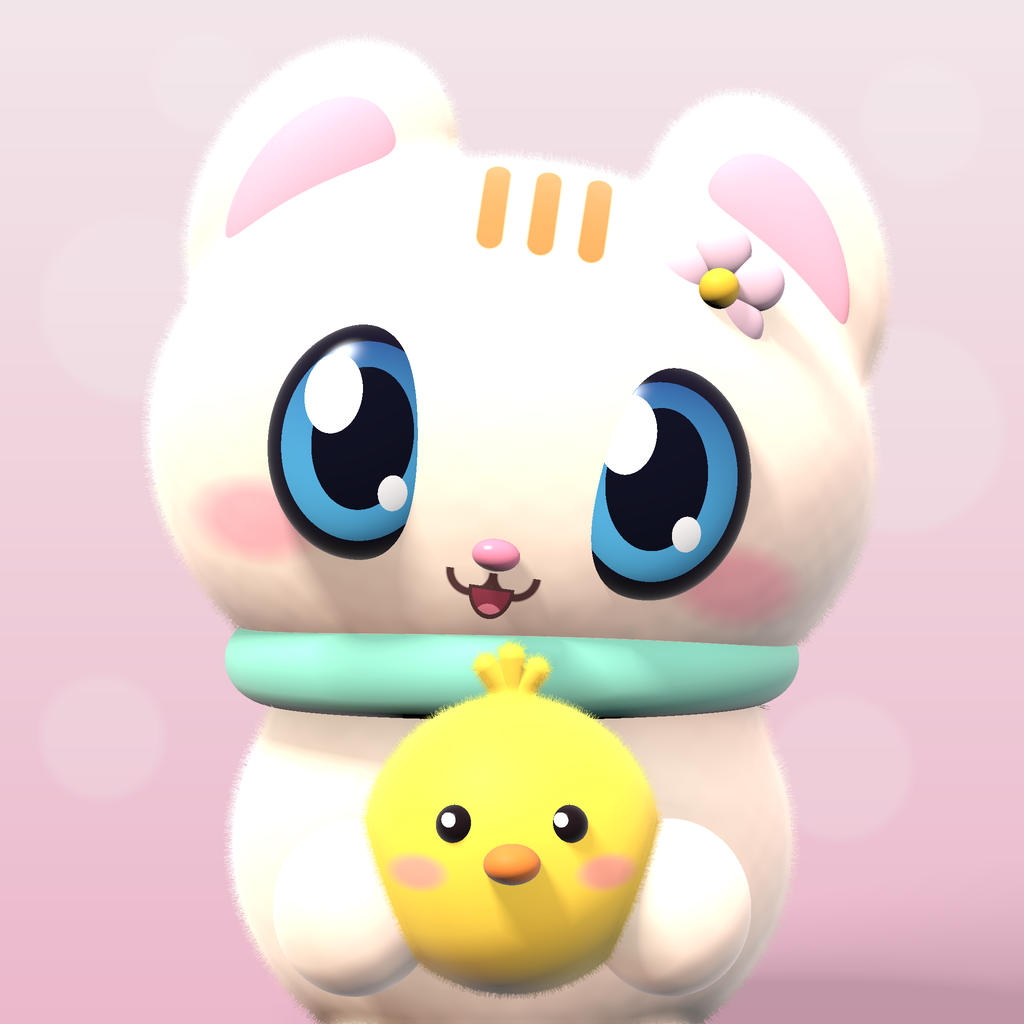
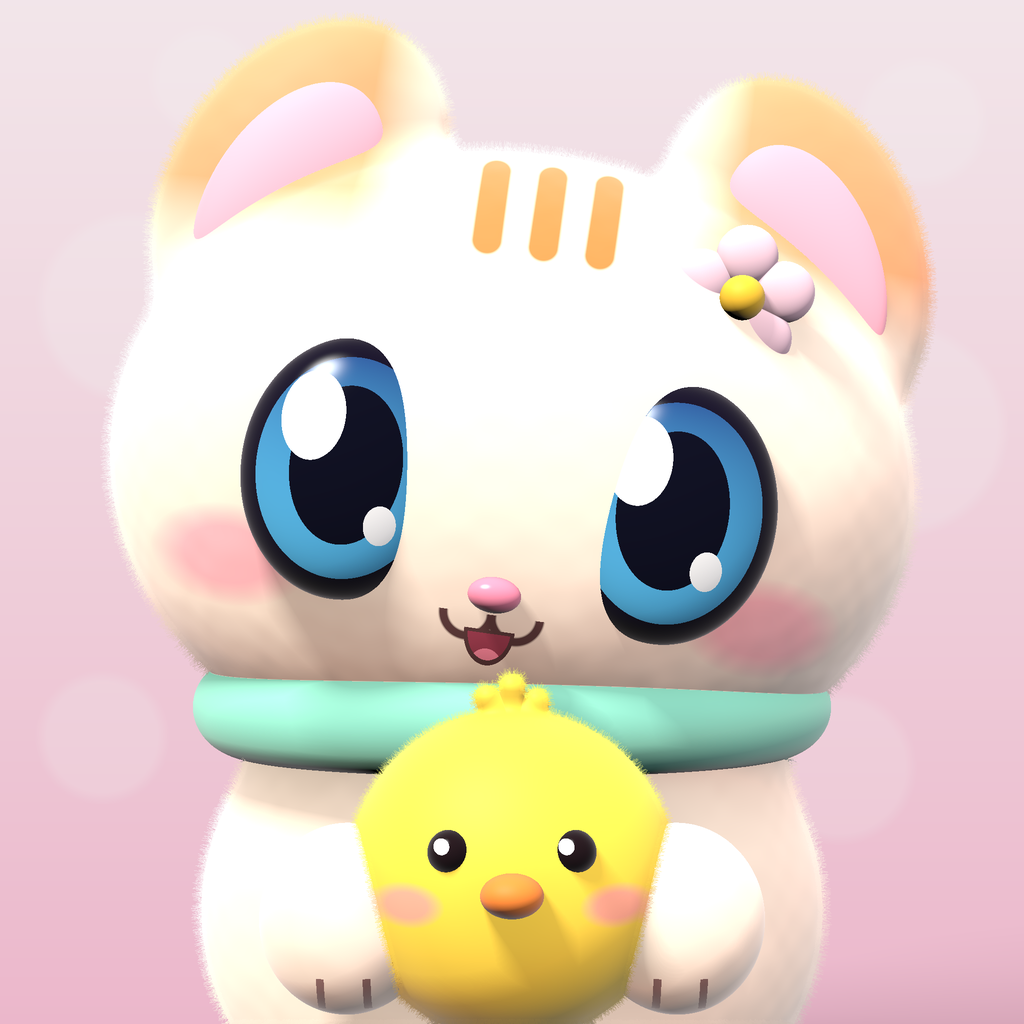
Closer framing, ginger ear tips, paws clasping the chick

diff --git a/render3d.py b/render3d.py
@@ -83,8 +83,8 @@ def scene(p, want_mat=False):
     feet = np.minimum(ell(p, v3(-0.5, -1.58, -0.42), v3(0.36, 0.2, 0.42)),
                       ell(p, v3(0.5, -1.58, -0.42), v3(0.36, 0.2, 0.42)))
     fur = smin(fur, feet, 0.08)
-    paws = np.minimum(ell(p, v3(-0.5, -0.86, -0.92), v3(0.26, 0.28, 0.26)),
-                      ell(p, v3(0.5, -0.86, -0.92), v3(0.26, 0.28, 0.26)))
+    paws = np.minimum(ell(p, v3(-0.47, -0.66, -0.96), v3(0.25, 0.27, 0.25)),
+                      ell(p, v3(0.47, -0.66, -0.96), v3(0.25, 0.27, 0.25)))
     fur = np.minimum(fur, paws)
     # a small daisy at the base of the right ear
     fc = HEAD_C + v3(0.6, 0.6, -0.68)
@@ -97,12 +97,12 @@ def scene(p, want_mat=False):
     eyes = np.minimum(ell(hp, HEAD_C + v3(-0.47, -0.06, -0.84), v3(0.31, 0.38, 0.16)),
                       ell(hp, HEAD_C + v3(0.47, -0.06, -0.84), v3(0.31, 0.38, 0.16)))
     nose = ell(hp, HEAD_C + v3(0, -0.36, -0.99), v3(0.075, 0.05, 0.05))
-    chick = sph(p, v3(0, -0.66, -0.9), 0.47)
-    beak = ell(p, v3(0, -0.66, -1.38), v3(0.085, 0.06, 0.08))
-    ceyes = np.minimum(sph(p, v3(-0.17, -0.55, -1.3), 0.06), sph(p, v3(0.17, -0.55, -1.3), 0.06))
-    tuft = np.minimum(np.minimum(capsule(p, v3(0, -0.2, -0.92), v3(-0.08, -0.09, -0.95), 0.035),
-                                 capsule(p, v3(0, -0.2, -0.92), v3(0.0, -0.06, -0.95), 0.038)),
-                      capsule(p, v3(0, -0.2, -0.92), v3(0.08, -0.1, -0.94), 0.035))
+    chick = sph(p, v3(0, -0.54, -0.9), 0.47)
+    beak = ell(p, v3(0, -0.54, -1.38), v3(0.085, 0.06, 0.08))
+    ceyes = np.minimum(sph(p, v3(-0.17, -0.43, -1.3), 0.06), sph(p, v3(0.17, -0.43, -1.3), 0.06))
+    tuft = np.minimum(np.minimum(capsule(p, v3(0, -0.1, -0.92), v3(-0.07, -0.03, -0.95), 0.033),
+                                 capsule(p, v3(0, -0.1, -0.92), v3(0.0, 0.0, -0.95), 0.036)),
+                      capsule(p, v3(0, -0.1, -0.92), v3(0.07, -0.04, -0.94), 0.033))
     chick = smin(chick, tuft, 0.05)
     # scarf: a flattened torus around the neck
     q = p - v3(0, -0.12, 0.05)
@@ -121,8 +121,8 @@ def scene(p, want_mat=False):
 
 
 # ------------------------------------------------------------------ camera
-CAM = v3(0, 0.4, -9.0)
-FOCAL = 4.95  # larger = narrower field of view
+CAM = v3(0, 0.5, -9.0)
+FOCAL = 5.5  # larger = narrower field of view
 ys, xs = np.mgrid[0:N, 0:N].astype(F)
 u = ((xs + 0.5) / N - 0.5) * 2
 v = -((ys + 0.5) / N - 0.5) * 2
@@ -223,6 +223,16 @@ for s in (-1, 1):
     lower = fy < -0.42
     a = (np.clip((0.016 - md) / 0.006, 0, 1) * lower * front)[:, None]
     base = base * (1 - a) + srgb_to_lin(hexc("#5A3A3A")) * a
+# ginger ear tips: warm colour toward the top outer corners of the head
+furh = mat == M_FUR
+g = np.clip((fy - 0.55) / 0.25, 0, 1) * np.clip((np.abs(fx) - 0.4) / 0.2, 0, 1) * furh
+base = base * (1 - 0.8 * g[:, None]) + srgb_to_lin(hexc("#E9893A"))[None] * (0.8 * g[:, None])
+# toe lines on the paws hugging the chick
+for sx in (-0.47, 0.47):
+    for k in (-1, 1):
+        on = (np.abs(ph[:, 0] - (sx + k * 0.065)) < 0.011) & (ph[:, 1] > -0.9) & (ph[:, 1] < -0.8) \
+             & (ph[:, 2] < -1.0) & furh
+        base = np.where(on[:, None], srgb_to_lin(hexc("#8A6460"))[None], base)
 # a small open smile with a tongue under the w
 mr = np.hypot(fx / 0.062, (fy + 0.47) / 0.085)
 mouth = (mr < 1) & (fy < -0.475) & front
@@ -255,10 +265,10 @@ for s in (-1, 1):
 
 # chick: blush on its cheeks and a catchlight in each eye
 for s in (-1, 1):
-    bd = ((ph[:, 0] - s * 0.29) / 0.09) ** 2 + ((ph[:, 1] + 0.7) / 0.055) ** 2
+    bd = ((ph[:, 0] - s * 0.29) / 0.09) ** 2 + ((ph[:, 1] + 0.58) / 0.055) ** 2
     a = (np.clip(1.4 - bd, 0, 1) * 0.7 * (mat == M_CHICK))[:, None]
     base = base * (1 - a) + srgb_to_lin(hexc("#FF8FA3")) * a
-    cl = np.hypot(ph[:, 0] - (s * 0.17 - 0.022), ph[:, 1] - (-0.53)) < 0.022
+    cl = np.hypot(ph[:, 0] - (s * 0.17 - 0.022), ph[:, 1] - (-0.41)) < 0.022
     base = np.where((cl & (mat == M_CEYE))[:, None], F(1.0), base)
 
 # toe lines on the feet
